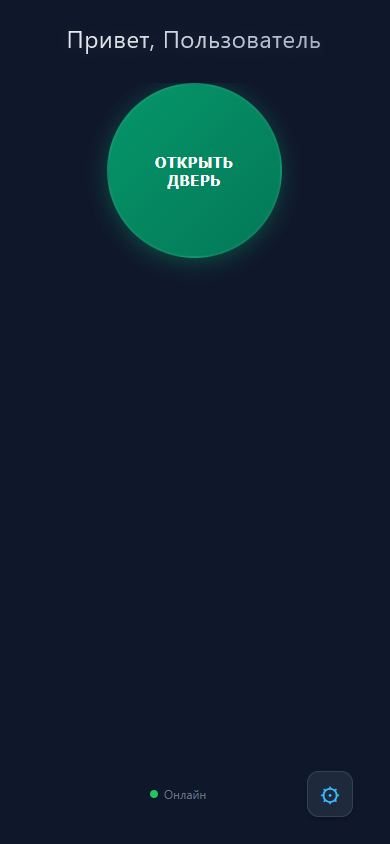
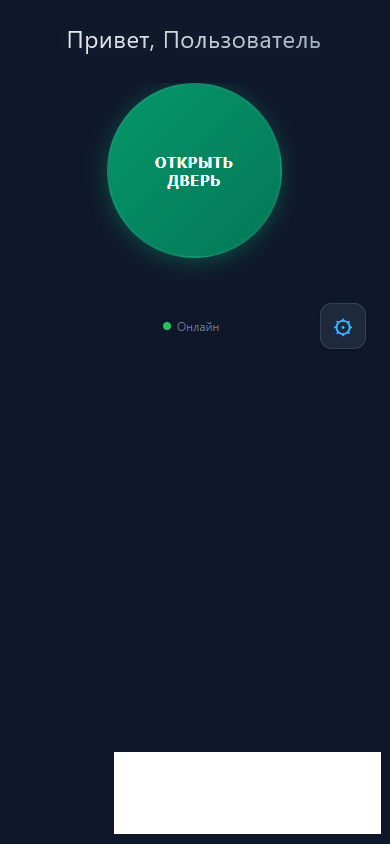
Add files via upload

Changed region(s): [[0.2769, 0.8934, 0.9846, 1.0], [0.4, 0.3697, 0.5538, 0.4005], [0.8615, 0.3697, 0.9231, 0.4005]]

diff --git a/js/sw.js b/js/sw.js
@@ -1,4 +1,4 @@
-const CACHE_NAME = 'doorbell-pwa-cache-v1';
+const CACHE_NAME = 'doorbell-pwa-cache-v2';
 
 // Список локальных файлов интерфейса, которые телефон сохранит в свою память
 const ASSETS_TO_CACHE = [
